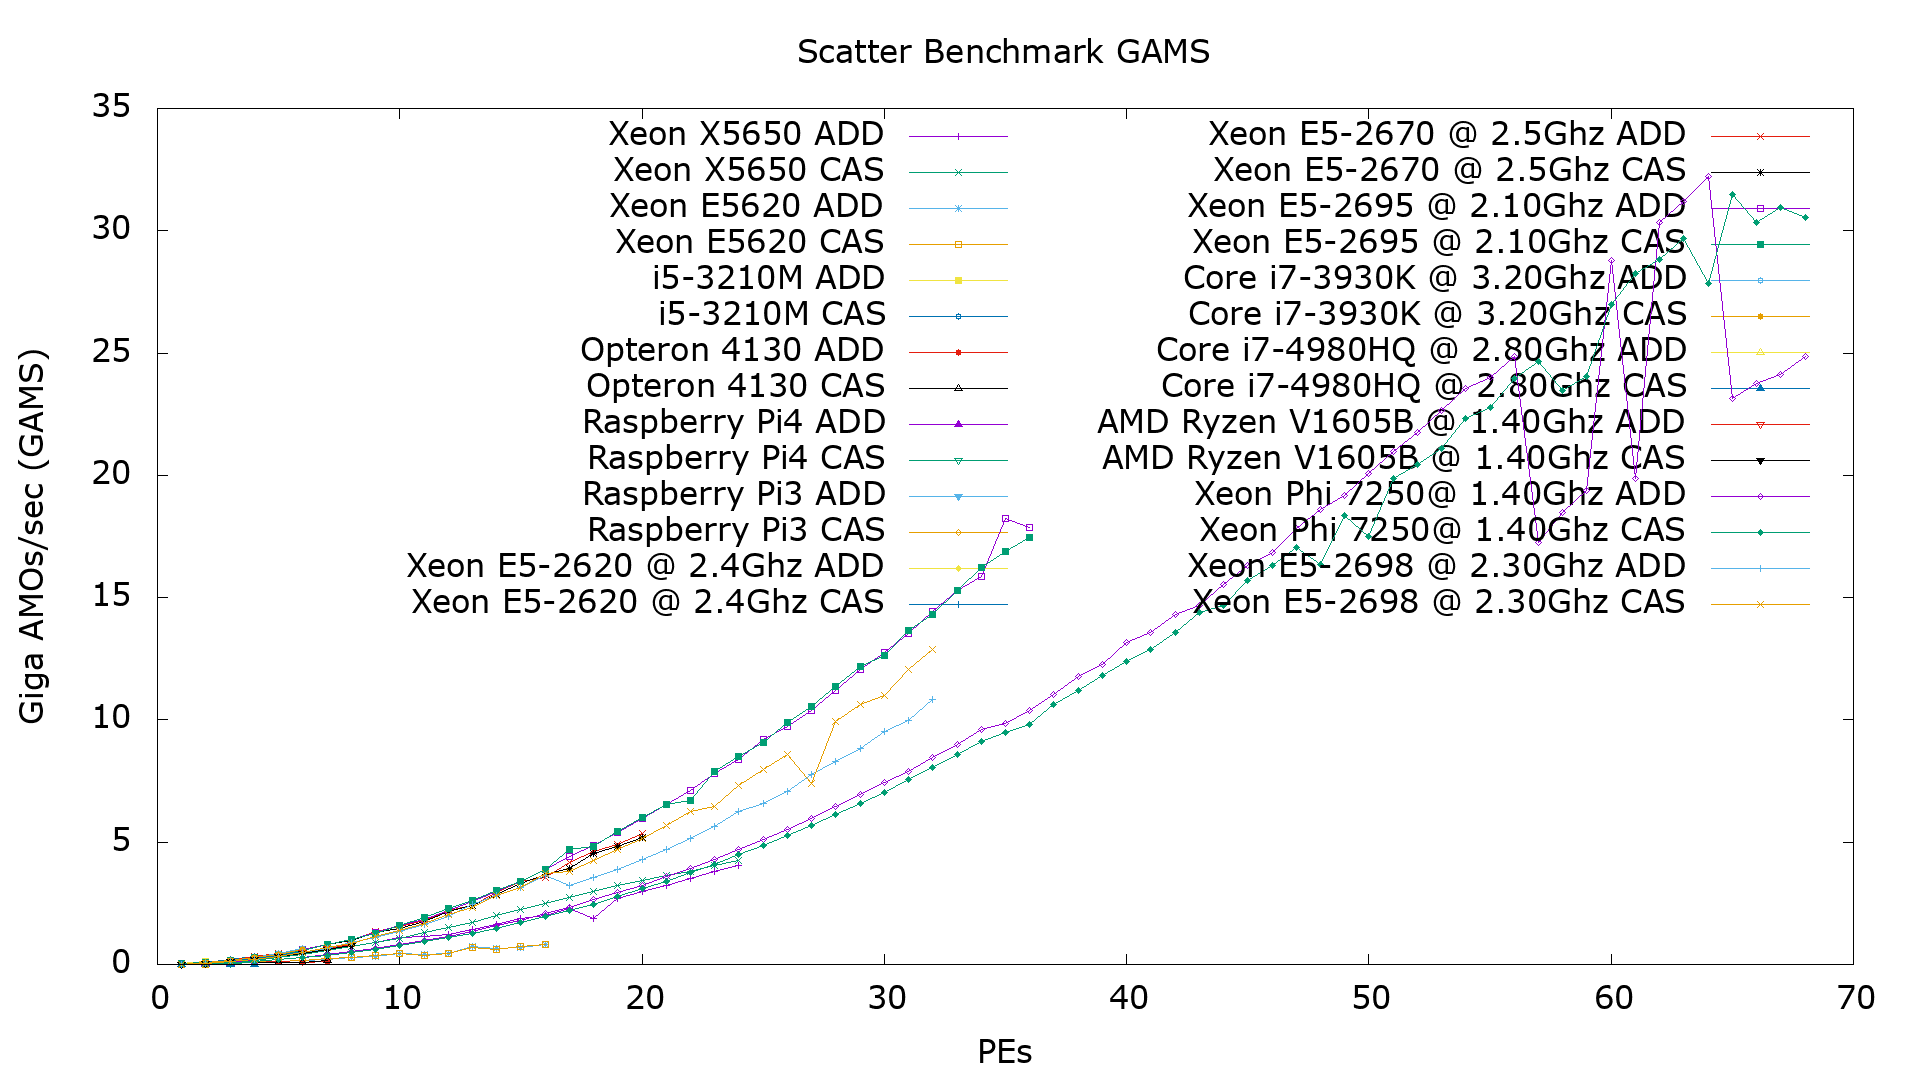
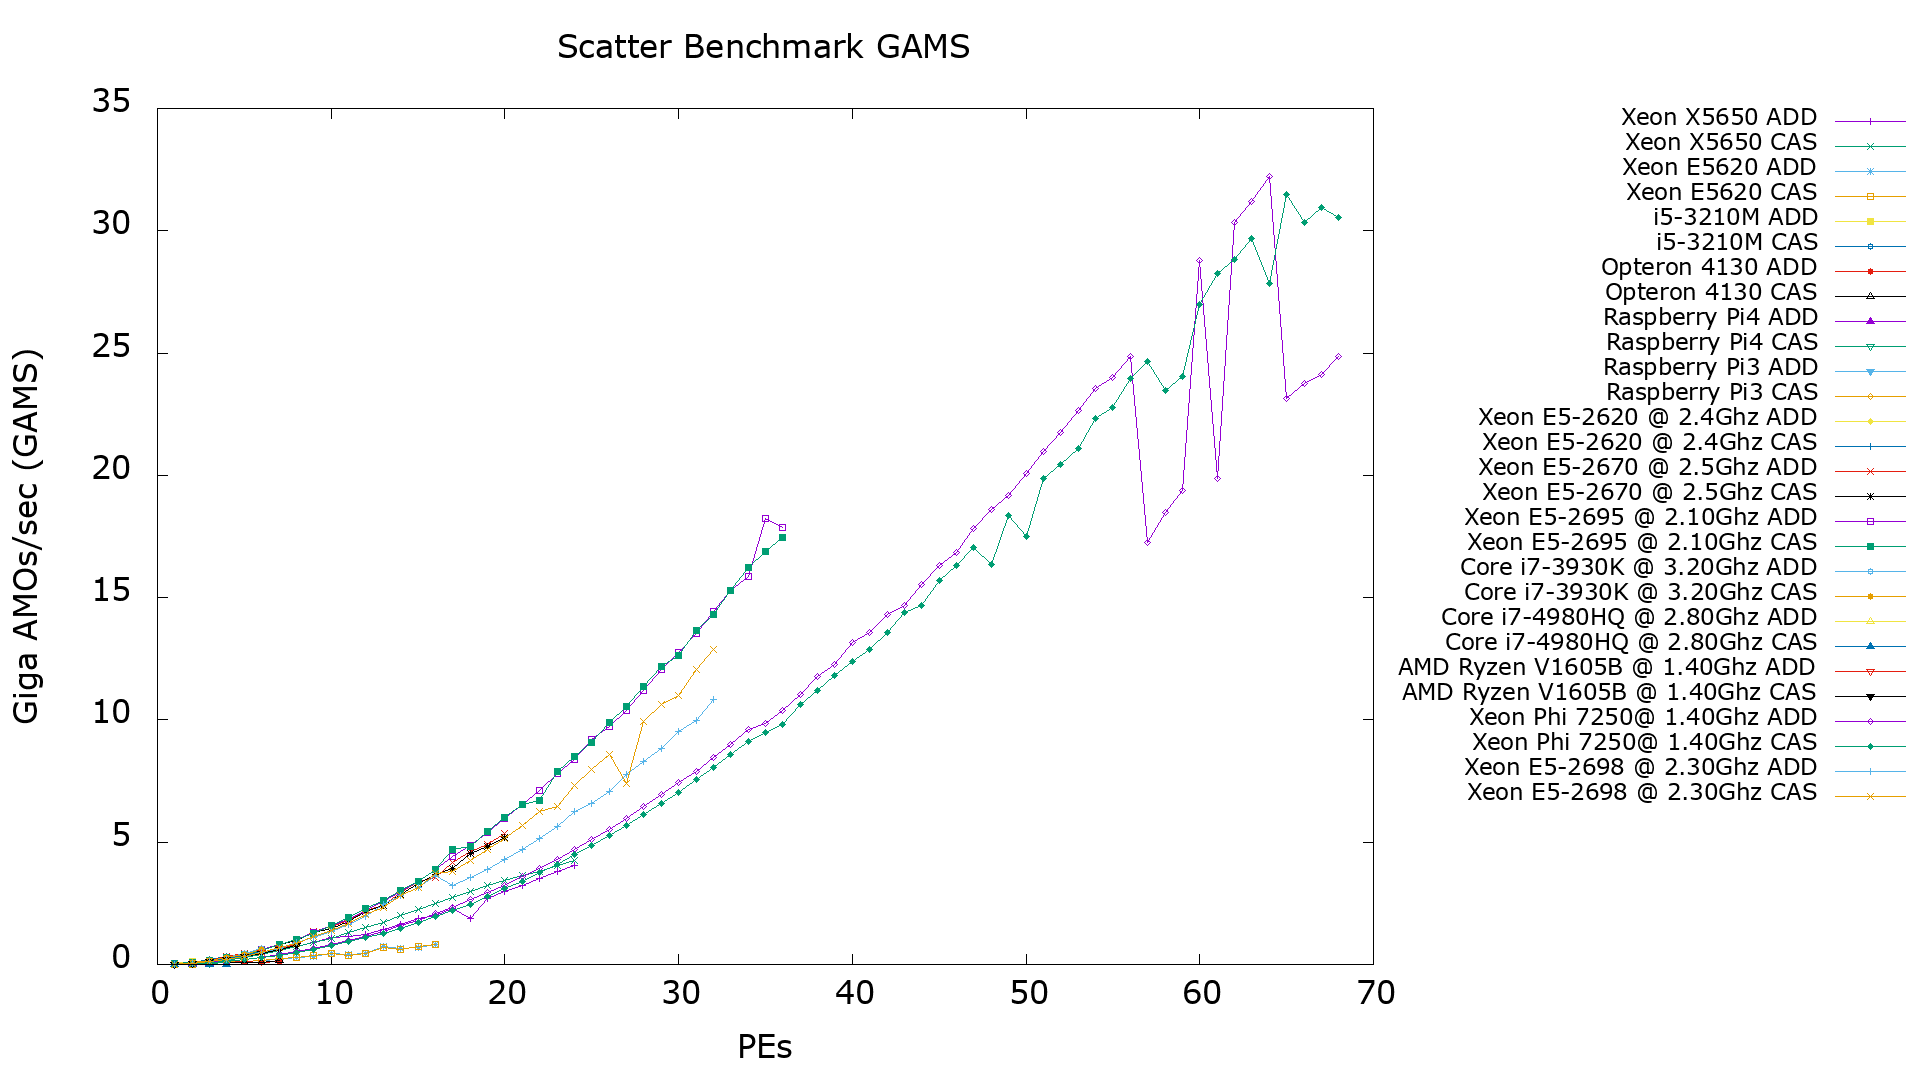
adding new data to the system table and updating figures

diff --git a/sample-sigconf.tex b/sample-sigconf.tex
@@ -334,6 +334,8 @@ Xeon-E5-2695&2.10Ghz&36&2&48MiB&192GiB&Centos7 NNN&NNN\\
 i7-3930K&3.20Ghz&12&1&12MiB&64GiB&Linux Mint 18.3 NNN&NNN\\
 i7-4980HQ&2.80Ghz&8&1&16MiB&16GiB&macOS 10.15.3&GCC 9.2.0\\
 Ryzen V1605B&1.4Ghz&8&1&512KiB&32GiB&Ubuntu 19.04 5.2.10&GCC 8.3.0\\
+Xeon Phi 7250&1.40Ghz&272&1&1MiB&16GiB&SLES 4.12.14&GCC 8.3.0\\
+Xeon E5-2698&12.30Ghz&32&2&40MiB&128GiB&SLES 4.12.14&GCC 8.3.0\\
 \bottomrule
 \end{tabular}
 \end{table*}
